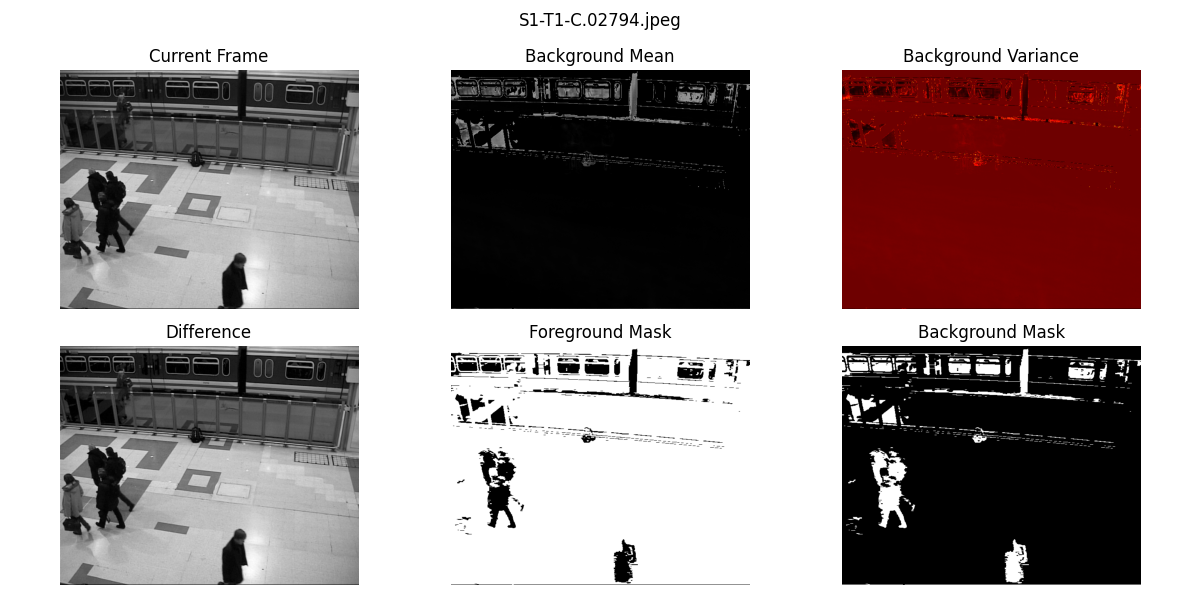
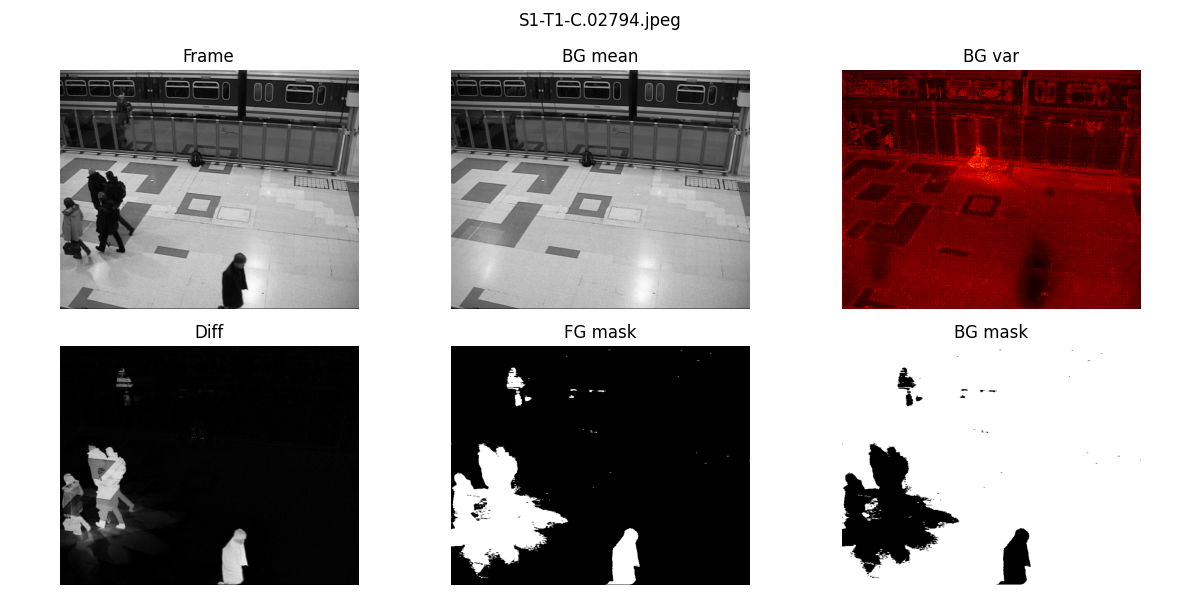
final submission

diff --git a/main.py b/main.py
@@ -1,9 +1,14 @@
-# Online Gaussian Mixture Model (GMM) for background subtraction
-# Implementation of the Stauffer & Grimson algorithm (Adaptive background mixture models) for background subtraction
-# Use of PyTorch for clear tensor expressions, familiarity with the framework, and esy switching to GPU
-# OpenCV intentionaly avoided to showcase the full algorithm and avoid built-in and obstructed logic
+"""
+ChatGPT (OpenAI) was used for assistance with boilerplate code,
+syntax corrections and suggestions, formatting, and general implementation inquiry.
+"""
 
-import os
+# Online GMM for background subtraction
+# Implements Stauffer & Grimson adaptive Gaussian mixture model per pixel
+# PyTorch used for clean tensor ops, personal familiarity and when compatiblefor  switching to GPU
+# OpenCV avoided to show full algorithm and hidden logic
+
+import os 
 import torch
 import torch.nn.functional as F
 from PIL import Image
@@ -12,124 +17,101 @@ import matplotlib
 import matplotlib.pyplot as plt
 matplotlib.use('Agg')
 
+# device = "cuda" if torch.cuda.is_available() else "cpu"
 device = "cpu"
 
 # initializes the GMM using 3D tensors for mean, variance, and mixing coefficients
 # will be stored as [H: nb of pixel rows, W: nb of pixel columns, K: k-th Gaussian] per frame
 # using tensor ops updates all pixels simultaneously w/o python loops which would run slowly
 # Gaussian updates and initialization still occurs per-pixel
-
 class OnlineGMM:
     def __init__(self, H, W, K=3, lr=1/40, init_var=30.0, match_thresh=2.5, device=device):
-        self.H = H
-        self.W = W
-        self.K = K
-        self.lr = lr
-        self.match_thresh = match_thresh
-        self.device = device
+        self.H, self.W, self.K = H, W, K
+        self.lr, self.init_var, self.match_thresh, self.device = lr, init_var, match_thresh, device
         self.mu = torch.zeros(H, W, K, device=device)
-        self.var = torch.ones(H, W, K, device=device) * init_var
-        self.pi = torch.ones(H, W, K, device=device) / K
+        self.var = torch.ones(H, W, K, device=device)*init_var
+        self.pi = torch.zeros(H, W, K, device=device)
+        self.pi[...,0] = 1.0  # first Gaussian is initialized as dominant
 
     # Update the Gaussian mixture for every pixel based on new frame
     def update(self, frame):
         # unsqueeze adds a dimension [H,K,1] so the frame can automatically expand to match [H,W,K]
         frame_exp = frame.unsqueeze(-1)
         # distance from pixel to Gaussian, scaled by variance
-        dist = torch.abs(frame_exp - self.mu) / torch.sqrt(self.var)
+        dist = torch.abs(frame_exp - self.mu)/torch.sqrt(self.var)
         # Stauffer and Grimson update rule with delta = 0
         self.pi *= (1.0 - self.lr)
+
         # finds the Gaussian with minimum distance for each pixel
         min_dist, best_match = dist.min(dim=-1)
         # mask for pixels that satisfy the distance threshold
         match_mask = min_dist < self.match_thresh
         # sets unmatched pixels to -1
-        best_match[~match_mask] = -1
+        best_match = torch.where(match_mask, best_match, torch.full_like(best_match, -1))
 
-        # for each Gaussian, we check whether it is the best match for the given frame
+        # update matched Gaussians
         for k in range(self.K):
-            # boolean mask indicating which pixels are best matched to Gaussian k
-            mask = best_match == k
-            # proceed only if at least one pixel matched this Gaussian (update rule)
+            mask = best_match==k  # pixels matched with k-th Gaussian
             if mask.any():
-                # retrieves the (row, column) indices of pixels matched to Gaussian k
-                rows, cols = torch.nonzero(mask, as_tuple=True)
-                # computes the difference between current pixel values and the Gaussian mean
-                diff = frame[rows, cols] - self.mu[rows, cols, k]
-                # updates the mean to move it toward the current pixel 
-                self.mu[rows, cols, k] += self.lr * diff
-                # updates the variance according to update rule
-                self.var[rows, cols, k] += self.lr * (diff**2 - self.var[rows, cols, k])
-                # increases the mixing coefficient (weight) since this Gaussian matched the pixels
-                self.pi[rows, cols, k] += self.lr
+                rows, cols = torch.nonzero(mask, as_tuple=True)  # matched pixel indices
+                diff = frame[rows,cols]-self.mu[rows,cols,k]  # difference [num_matches]
+                self.mu[rows,cols,k] += self.lr*diff  # update mean
+                self.var[rows,cols,k] += self.lr*(diff**2 - self.var[rows,cols,k])  # update variance
+                self.pi[rows,cols,k] += self.lr  # update mixing coefficient
 
-        # normalizes the mixing coefficients so that sum = 1
-        self.pi /= self.pi.sum(dim=-1, keepdim=True)
+        # initialize unmatched pixels with current frame value
+        unmatched = best_match==-1
+        if unmatched.any():
+            rows, cols = torch.nonzero(unmatched, as_tuple=True)  # unmatched indices
+            score = self.pi/self.var  # score to pick weakest Gaussian [H,W,K]
+            weakest = score.argmin(dim=-1)  # weakest Gaussian index per pixel
+            k = weakest[rows,cols]  # Gaussian to replace
+            self.mu[rows,cols,k] = frame[rows,cols]  # new mean = pixel value
+            self.var[rows,cols,k] = self.init_var  # large variance
+            self.pi[rows,cols,k] = torch.maximum(self.pi[rows,cols,k],
+                                                 torch.tensor(0.05, device=self.pi.device))  # soft init pi instead of hard assignement
 
-        score = self.pi / self.var
-        sorted_idx = score.argsort(dim=-1, descending=True)  # highest score first
-        
-        rows = torch.arange(self.H)[:, None, None].expand(self.H, self.W, self.K)
-        cols = torch.arange(self.W)[None, :, None].expand(self.H, self.W, self.K)
-        
-        self.mu  = self.mu[rows, cols, sorted_idx]
-        self.var = self.var[rows, cols, sorted_idx]
-        self.pi  = self.pi[rows, cols, sorted_idx]
-    
-    # returns mean value of the background Gaussian for each pixel
+        self.pi /= self.pi.sum(dim=-1, keepdim=True)  # normalize pi
+        score = self.pi/self.var  # sort score
+        sorted_idx = score.argsort(dim=-1, descending=True)  # sort Gaussians
+        rows = torch.arange(self.H, device=self.mu.device)[:,None,None]
+        cols = torch.arange(self.W, device=self.mu.device)[None,:,None]
+        self.mu = self.mu[rows,cols,sorted_idx]  # reorder mean
+        self.var = self.var[rows,cols,sorted_idx]  # reorder variance
+        self.pi = self.pi[rows,cols,sorted_idx]  # reorder mixing coeff
+
+    # get background mean = first Gaussian
     def get_background_mean(self):
-        return self.mu[..., 0]
-    
-    # returns [H, W] tensor of background variance
-    def get_background_var(self):
-        return self.var[..., 0] 
-    
-    # returns binary mask for foreground by applying condition on threshold
-    def get_foreground_mask(self, frame, T=0.7):
-        """
-        Returns a [H, W] binary foreground mask using cumulative mixing coefficients.
-        Pixels are foreground if they do not match any of the first B background Gaussians.
-        
-        Parameters:
-            frame : [H, W] tensor of the current frame
-            T     : threshold for cumulative mixing coefficient to define background
-        """
-        # sorted Gaussians assumed: mu[...,0] = most likely, mu[...,1], ...
-        cum_pi = torch.cumsum(self.pi, dim=-1)  # cumulative sum along K dimension
-        
-        # mask of background Gaussians per pixel: True if cumulative pi <= T
-        bg_mask = cum_pi <= T
-        # always include the first Gaussian
-        bg_mask[..., 0] = True
-        
-        # expand frame to [H,W,K] to compare with all Gaussians
-        frame_exp = frame.unsqueeze(-1)  # [H,W,1]
-        
-        # absolute difference to all Gaussians
-        diff = torch.abs(frame_exp - self.mu)
-        
-        # standard deviations
-        std = torch.sqrt(self.var)
-        
-        # pixel matches a background Gaussian if diff < match_thresh * std
-        match = diff <= self.match_thresh * std
-        
-        # only consider Gaussians flagged as background
-        match = match & bg_mask
-        
-        # pixel is foreground if it does NOT match any background Gaussian
-        fg_mask = (~match.any(dim=-1)).to(torch.uint8)
-        
-        return fg_mask
+        return self.mu[...,0]
 
-# morphological operations for denoising
+    # get background variance using cumulative pi threshold
+    def get_background_var(self, T=0.7):
+        cum_pi = torch.cumsum(self.pi, dim=-1)  # cumulative sum along K
+        bg_mask = cum_pi<=T  # mask of background Gaussians
+        bg_mask[...,0] = True  # always include first Gaussian
+        bg_var = (self.var*bg_mask).sum(dim=-1)/bg_mask.sum(dim=-1).clamp(min=1)  # weighted var
+        return bg_var
+
+    # get foreground mask: pixels not matching background Gaussians
+    def get_foreground_mask(self, frame, T=0.7):
+        cum_pi = torch.cumsum(self.pi, dim=-1)
+        bg_mask = cum_pi<=T
+        bg_mask[...,0] = True
+        frame_exp = frame.unsqueeze(-1)
+        diff = torch.abs(frame_exp - self.mu)
+        std = torch.sqrt(self.var)
+        match = (diff<=self.match_thresh*std) & bg_mask  # matches background Gaussians
+        fg_mask = (~match.any(dim=-1)).to(torch.uint8)  # foreground pixels
+        return fg_mask 
+
+# morphological operations for simple denoising
 def dilate(mask, kernel_size=3):
-    pad = kernel_size // 2
+    pad = kernel_size//2
     return F.max_pool2d(mask.float(), kernel_size=kernel_size, stride=1, padding=pad)
 
 def erode(mask, kernel_size=3):
-    pad = kernel_size // 2
-    return 1 - F.max_pool2d((1 - mask.float()), kernel_size=kernel_size, stride=1, padding=pad)
+    pad = kernel_size//2
+    return 1 - F.max_pool2d(1-mask.float(), kernel_size=kernel_size, stride=1, padding=pad)
 
 def opening(mask, kernel_size=3):
     return dilate(erode(mask, kernel_size), kernel_size)
@@ -143,60 +125,92 @@ def denoise_masks(masks, kernel_size=3):
     masks = closing(masks, kernel_size)
     return masks.squeeze(1)
 
-# loads images as grayscale
+# load grayscale frames as [N,C,H,W], scale 0-255
 def load_images_as_grayscale(folder_path, device=device):
     image_files = sorted(f for f in os.listdir(folder_path) if f.lower().endswith(".jpeg"))
     frames = []
+    # store each image as a tensor and scale to 0-255 because method normalizes pixel values to [0,1]
     for f in image_files:
-        img = Image.open(os.path.join(folder_path, f)).convert("L")
-        # store each image as a tensor and scale to 0-255 because method normalizes pixel values to [0,1]
-        tensor = transforms.to_tensor(img) * 255.0
+        img = Image.open(os.path.join(folder_path,f)).convert("L")
+        tensor = transforms.to_tensor(img)*255.0
         frames.append(tensor)
     frames = torch.stack(frames, dim=0).to(device)
-    print(f"Loaded {len(frames)} frames, shape: {frames.shape}")
+    print(f"Loaded {len(frames)} frames, shape {frames.shape}")
     return frames, image_files
 
-#
-def process_sequence_lr(frames_tensor, frame_files, frame_indices_to_show, learning_rates):
-    N, C, H, W = frames_tensor.shape
-    frames_tensor = frames_tensor.squeeze(1)
+# save side-by-side FG and BG masks for all frames and learning rates
+def save_fg_bg_masks_all(frames_tensor, frame_files, learning_rates=[1/40,1/1400], output_folder="all_masks"):
+    if frames_tensor.ndim == 4:
+        frames_tensor = frames_tensor.squeeze(1)
+    N, H, W = frames_tensor.shape
+
     for lr in learning_rates:
-        print(f"\nProcessing sequence with learning rate {lr}...")
+        print(f"\nProcessing all frames with lr={lr}...")
         gmm = OnlineGMM(H, W, K=3, lr=lr, device=device)
+        lr_folder = os.path.join(output_folder, f"lr_{lr}")
+        os.makedirs(lr_folder, exist_ok=True)
+
         for t in range(N):
             frame = frames_tensor[t]
             gmm.update(frame)
+
             fg_mask = gmm.get_foreground_mask(frame)
             fg_mask_denoised = denoise_masks(fg_mask)
+            bg_mask = 1 - fg_mask_denoised
+
+            combined = torch.cat([fg_mask_denoised, bg_mask], dim=1)
+
+            plt.figure(figsize=(10,5))
+            plt.imshow(combined.cpu(), cmap="gray")
+            plt.axis('off')
+            plt.title(f"{frame_files[t]} | lr={lr}")
+            plt.tight_layout()
+            plt.savefig(os.path.join(lr_folder, f"frame_{t}_{frame_files[t]}"))
+            plt.close()
+
+        print(f"Finished learning rate {lr}")
+
+# process selected frames and save plots for multiple learning rates
+def process_sequence_lr(frames_tensor, frame_files, frame_indices_to_show, learning_rates):
+    N,C,H,W = frames_tensor.shape
+    frames_tensor = frames_tensor.squeeze(1)
+    for lr in learning_rates:
+        print(f"\nProcessing with lr={lr}")
+        gmm = OnlineGMM(H,W,K=3,lr=lr,device=device)
+        for t in range(N):
+            frame = frames_tensor[t]
+            gmm.update(frame)
+
+            fg_mask = gmm.get_foreground_mask(frame)
+            fg_mask_denoised = denoise_masks(fg_mask)
+
             if t in frame_indices_to_show:
-                bg_mean = gmm.get_background_mean()
+                bg_mean = gmm.get_background_mean() 
                 bg_var = gmm.get_background_var()
-                diff = torch.abs(frame - bg_mean)
+                diff = torch.abs(frame-bg_mean)
                 bg_mask = 1 - fg_mask_denoised
+
                 os.makedirs(f"results_lr_{lr}", exist_ok=True)
                 plt.figure(figsize=(12,6))
-                plt.subplot(2,3,1)
-                plt.imshow(frame.cpu(), cmap='gray'); plt.axis('off'); plt.title("Current Frame")
-                plt.subplot(2,3,2)
-                plt.imshow(bg_mean.cpu(), cmap='gray'); plt.axis('off'); plt.title("Background Mean")
-                plt.subplot(2,3,3)
-                plt.imshow(bg_var.cpu(), cmap='hot'); plt.axis('off'); plt.title("Background Variance")
-                plt.subplot(2,3,4)
-                plt.imshow(diff.cpu(), cmap='gray'); plt.axis('off'); plt.title("Difference")
-                plt.subplot(2,3,5)
-                plt.imshow(fg_mask_denoised.cpu(), cmap='gray'); plt.axis('off'); plt.title("Foreground Mask")
-                plt.subplot(2,3,6)
-                plt.imshow(bg_mask.cpu(), cmap='gray'); plt.axis('off'); plt.title("Background Mask")
+                plt.subplot(2,3,1); plt.imshow(frame.cpu(), cmap='gray'); plt.axis('off'); plt.title("Frame")
+                plt.subplot(2,3,2); plt.imshow(bg_mean.cpu(), cmap='gray'); plt.axis('off'); plt.title("BG mean")
+                plt.subplot(2,3,3); plt.imshow(bg_var.cpu(), cmap='hot'); plt.axis('off'); plt.title("BG var")
+                plt.subplot(2,3,4); plt.imshow(diff.cpu(), cmap='gray'); plt.axis('off'); plt.title("Diff")
+                plt.subplot(2,3,5); plt.imshow(fg_mask_denoised.cpu(), cmap='gray'); plt.axis('off'); plt.title("FG mask")
+                plt.subplot(2,3,6); plt.imshow(bg_mask.cpu(), cmap='gray'); plt.axis('off'); plt.title("BG mask")
                 plt.suptitle(frame_files[t])
                 plt.tight_layout()
                 plt.savefig(f"results_lr_{lr}/frame_{t}_{frame_files[t]}.png")
                 plt.close()
-        print(f"Finished learning rate {lr}")
+        print(f"Finished lr={lr}")
 
+# main execution
 if __name__ == "__main__":
-    folder = "sequence"
+    folder = "sequence"  # folder with JPEG frames
     frames_tensor, frame_files = load_images_as_grayscale(folder)
-    frame_indices_to_show = [2794, 3019]
-    learning_rates = [1/40, 1/1400]
+    frame_indices_to_show = [2422,2794]  # selected frames
+    learning_rates = [1/40,1/1400]
+
     process_sequence_lr(frames_tensor, frame_files, frame_indices_to_show, learning_rates)
-    print("All processing complete")
+    save_fg_bg_masks_all(frames_tensor, frame_files, learning_rates, output_folder="all_masks")
+    print("Processing complete")
